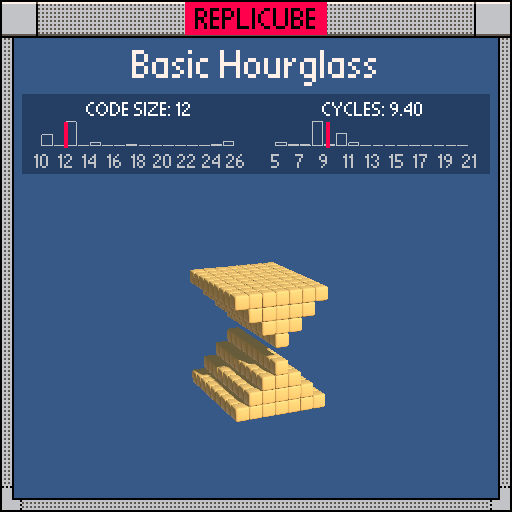
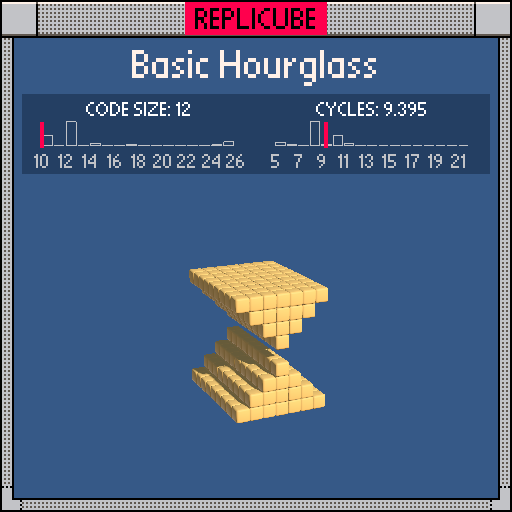
Updated basic hourglass

diff --git a/020-basic-hourglass/README.md b/020-basic-hourglass/README.md
@@ -2,6 +2,14 @@
 
 | Code size | Cycles / voxel |
 | --------- | -------------- |
-| 12        | 9.40           |
+| 12        | 9.395          |
 
 ![](basic-hourglass-0.png)
+
+# basic-hourglass-1.lua
+
+| Code size | Cycles / voxel |
+| --------- | -------------- |
+| 10        | 10.395         |
+
+![](basic-hourglass-1.png)
